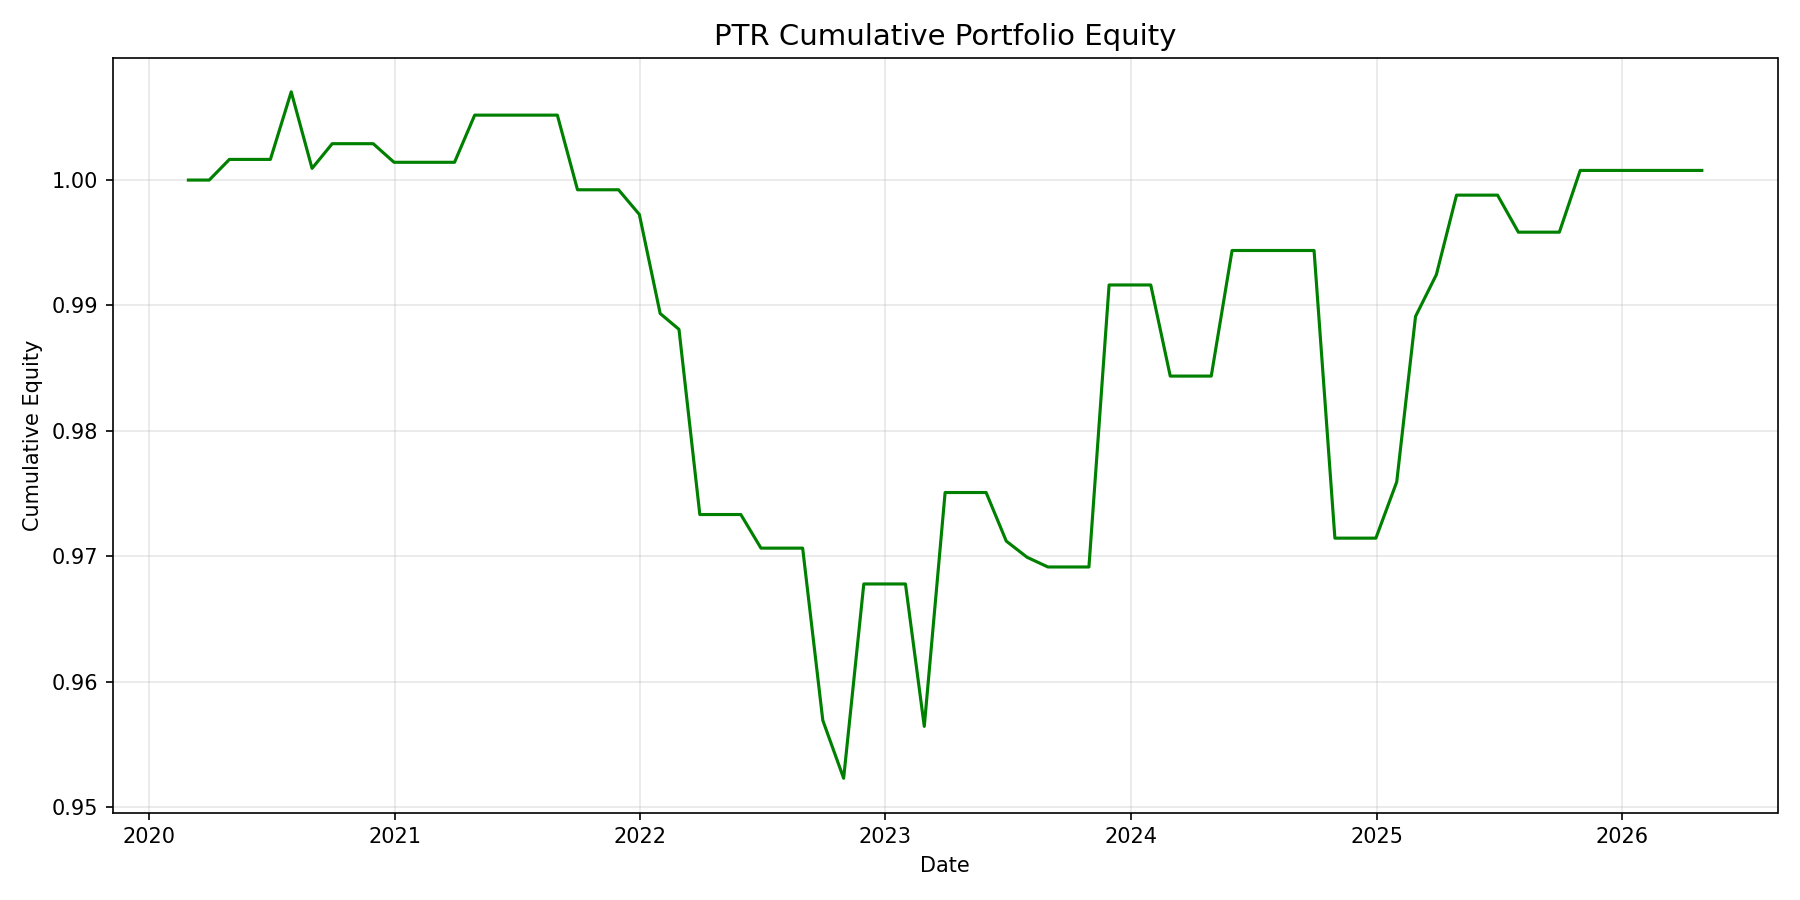
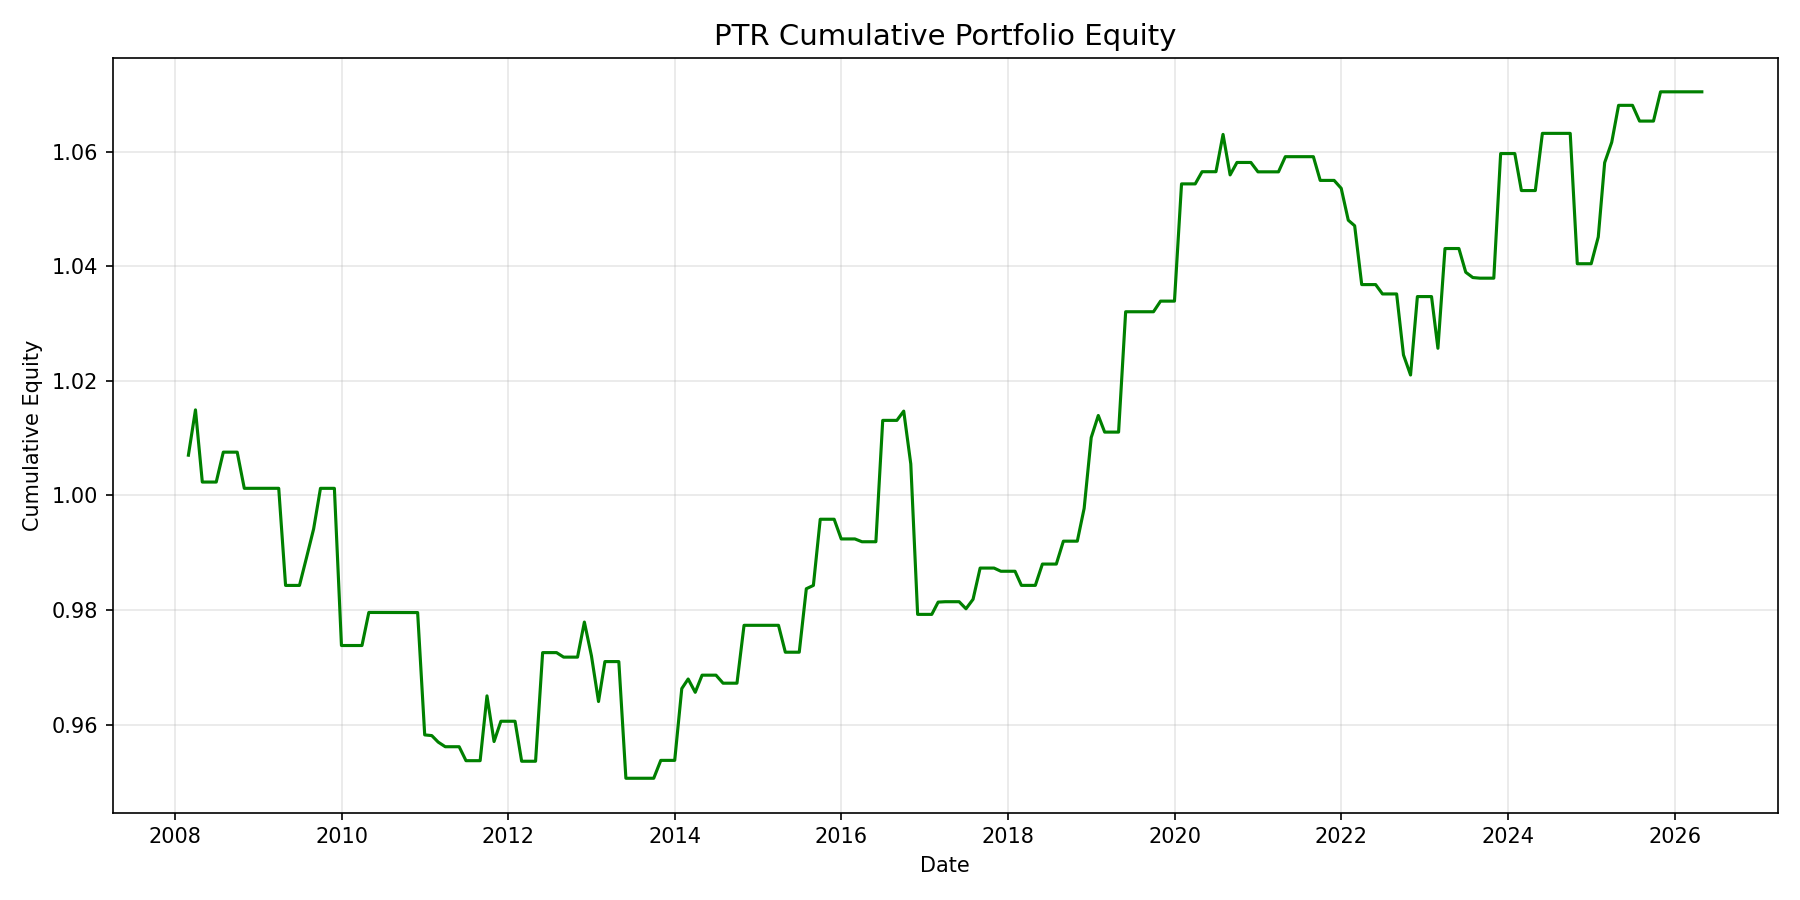
Update PTR backtest to start from 2006 DBC inception
- Extended START_DATE to 2006-01-01 (DBC inception)
- Reduced min_months from 120 to 24 for signal start
- Backtest now runs from 2008-01 to 2026-04
- Updated performance: 0.37% annualized return, -6.34% max drawdown

diff --git a/ptr_code.py b/ptr_code.py
@@ -19,7 +19,7 @@ import warnings
 warnings.filterwarnings('ignore')
 
 # Configuration
-START_DATE = "2010-01-01"  # Need ~10 years of data for z-score calculation
+START_DATE = "2006-01-01"  # DBC inception
 END_DATE = datetime.now().strftime("%Y-%m-%d")
 
 # ETF tickers
@@ -165,9 +165,11 @@ def calculate_signals(month_end_data, daily_data):
     # Get month-end dates as list
     month_dates = pd.to_datetime(month_end_data.index).tolist()
     
-    # Need 120 months (10 years) of data for z-score, start after that
+    # Need minimum 24 months of data for z-score calculation
+    min_months = 24
+    
     for i, current_date in enumerate(month_dates):
-        if i < 120:  # Skip first 10 years
+        if i < min_months:  # Skip first 24 months (2 years)
             continue
         
         # Get all daily data up to current month end
@@ -197,13 +199,10 @@ def calculate_signals(month_end_data, daily_data):
             bil_12m_ret = (bil.iloc[-1] - bil.iloc[-252]) / bil.iloc[-252]
             excess_spy = spy_12m_ret - bil_12m_ret
             
-            # Calculate z-score from historical data (past 10 years of monthly signals)
-            # We need to get historical excess returns for z-score calculation
-            # Look at all past months up to 120 months ago
-            if i >= 120:  # We have at least 10 years of history now
-                # Get signals from all previous months
+            # Calculate z-score from historical data (look back at min_months of history)
+            if i >= min_months:
                 hist_excess = []
-                for j in range(120, i):
+                for j in range(min_months, i):
                     past_date = month_dates[j]
                     past_data = daily_data[daily_data.index <= past_date]
                     if len(past_data) > 252:
@@ -214,7 +213,7 @@ def calculate_signals(month_end_data, daily_data):
                             p_bil = (past_bil.iloc[-1] - past_bil.iloc[-252]) / past_bil.iloc[-252]
                             hist_excess.append(p_spy - p_bil)
                 
-                if len(hist_excess) > 30:
+                if len(hist_excess) > 12:
                     zscore = calculate_zscore(excess_spy, pd.Series(hist_excess))
                     equity_signal = max(-1, min(1, -1 * zscore))
                     signals['equity_returns'].append(equity_signal)
@@ -231,9 +230,8 @@ def calculate_signals(month_end_data, daily_data):
         if len(dbc) > 252:
             dbc_12m_ret = (dbc.iloc[-1] - dbc.iloc[-252]) / dbc.iloc[-252]
             
-            # Historical DBC returns for z-score
             hist_dbc = []
-            for j in range(120, i):
+            for j in range(min_months, i):
                 past_date = month_dates[j]
                 past_data = daily_data[daily_data.index <= past_date]
                 past_dbc = past_data['DBC'].dropna()
@@ -241,7 +239,7 @@ def calculate_signals(month_end_data, daily_data):
                     p_dbc = (past_dbc.iloc[-1] - past_dbc.iloc[-252]) / past_dbc.iloc[-252]
                     hist_dbc.append(p_dbc)
             
-            if len(hist_dbc) > 30:
+            if len(hist_dbc) > 12:
                 zscore = calculate_zscore(dbc_12m_ret, pd.Series(hist_dbc))
                 commodity_signal = max(-1, min(1, -1 * zscore))
                 signals['commodity_returns'].append(commodity_signal)
@@ -256,9 +254,8 @@ def calculate_signals(month_end_data, daily_data):
             bil_ret = (bil.iloc[-1] - bil.iloc[-252]) / bil.iloc[-252]
             spread = spy_ret - bil_ret
             
-            # Historical spread for z-score
             hist_spread = []
-            for j in range(120, i):
+            for j in range(min_months, i):
                 past_date = month_dates[j]
                 past_data = daily_data[daily_data.index <= past_date]
                 past_spy = past_data['SPY'].dropna()
@@ -268,7 +265,7 @@ def calculate_signals(month_end_data, daily_data):
                     p_bil = (past_bil.iloc[-1] - past_bil.iloc[-252]) / past_bil.iloc[-252]
                     hist_spread.append(p_spy - p_bil)
             
-            if len(hist_spread) > 30:
+            if len(hist_spread) > 12:
                 zscore = calculate_zscore(spread, pd.Series(hist_spread))
                 yield_signal = max(-1, min(1, zscore))
                 signals['yield_spread'].append(yield_signal)
